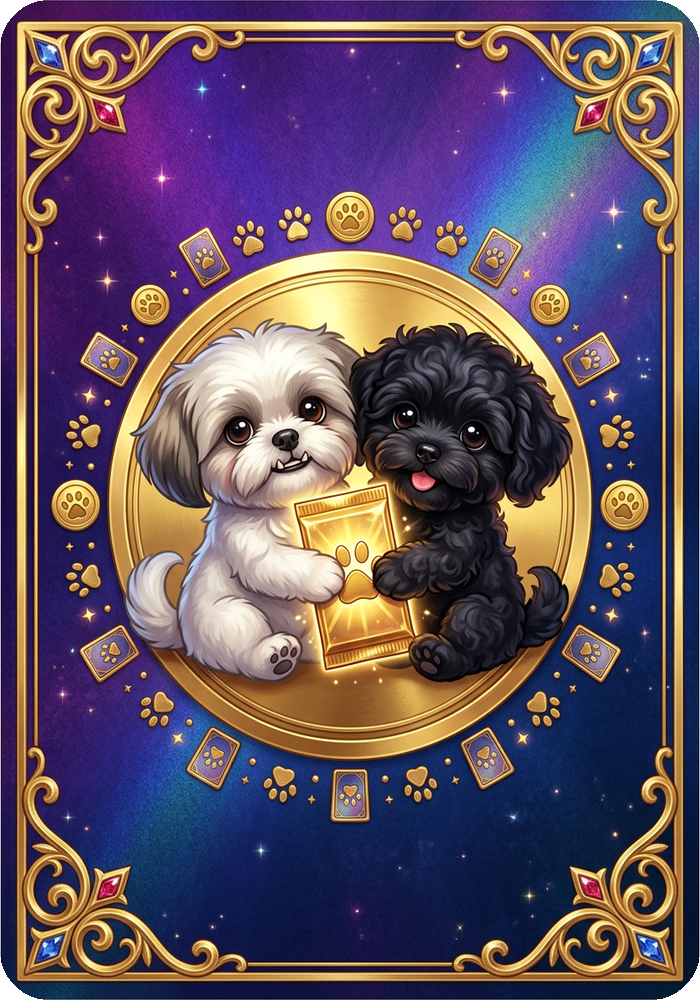
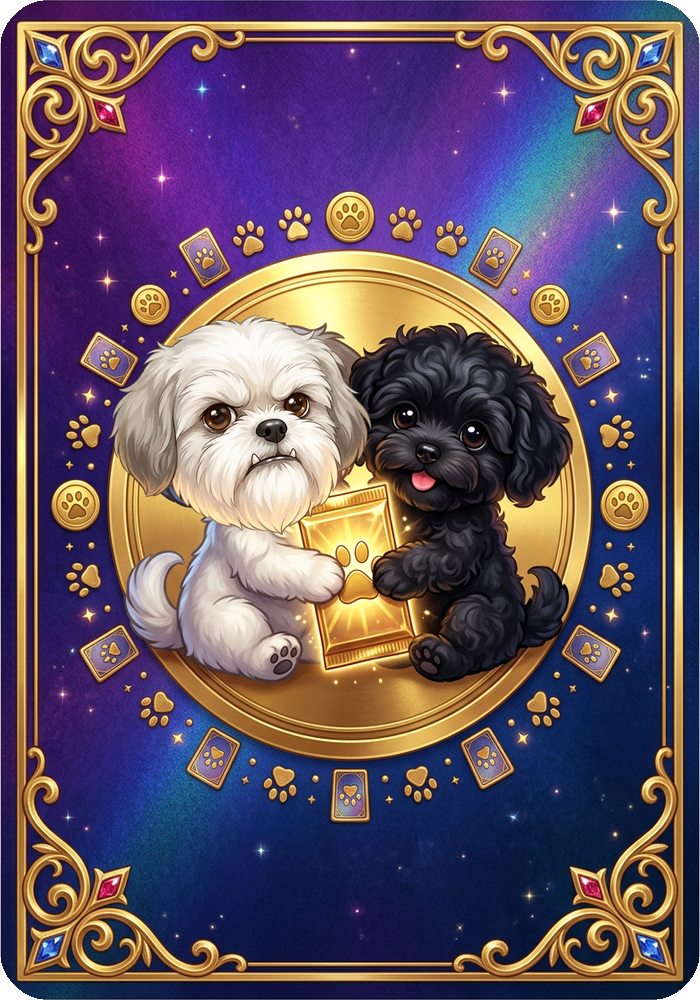
Card back: Pish a little grumpy with his underbite
A new grumpy Pish head laid over the old one on the medallion card back;
everything else unchanged.

Changed region(s): [[0.15, 0.31, 0.54, 0.558]]

diff --git a/DESIGN.md b/DESIGN.md
@@ -662,8 +662,8 @@ Epic in M" (player attributes PityLegendary / PityEpic); the odds panel and the 
   JPEGs in `assets/ui/card-art`). A card without one falls back to its element's painted scene (`SCENES`:
   fireplace, coral reef, forest, stormy peak, moonlit graveyard; `assets/ui/card-scenes`) with the element emoji
   on a glow, else an element gradient. Effects on the art: Epic and up a white shine now and then, foil and Frontier a holo
-  sweep. Missing binder slots: grey rim, dark silhouette and "?". The face-down back is Pish and Chikin hugging a
-  pack in a gold medallion on violet with gold filigree, one picture for the whole card (owner's pick A 2026-11-10:
+  sweep. Missing binder slots: grey rim, dark silhouette and "?". The face-down back is Pish (a little grumpy, with his
+  underbite) and Chikin hugging a pack in a gold medallion on violet with gold filigree, one picture for the whole card (owner's pick A 2026-11-10:
   "PISH and CHIKIN is now the face of this game"; `CardDesign.BACK.IMAGE`, `assets/ui/card-back`); glows use the "Glow Circle / Radial Glow" decal (public Creator Store image).
 - Cards on display in Glass Showcases and Collector Cases use the same card face, drawn by each client on the
   server's plain card part (0.84 x 1.2 studs, standing upright in two rows, `Config/CaseLayout`; the back drawn on
